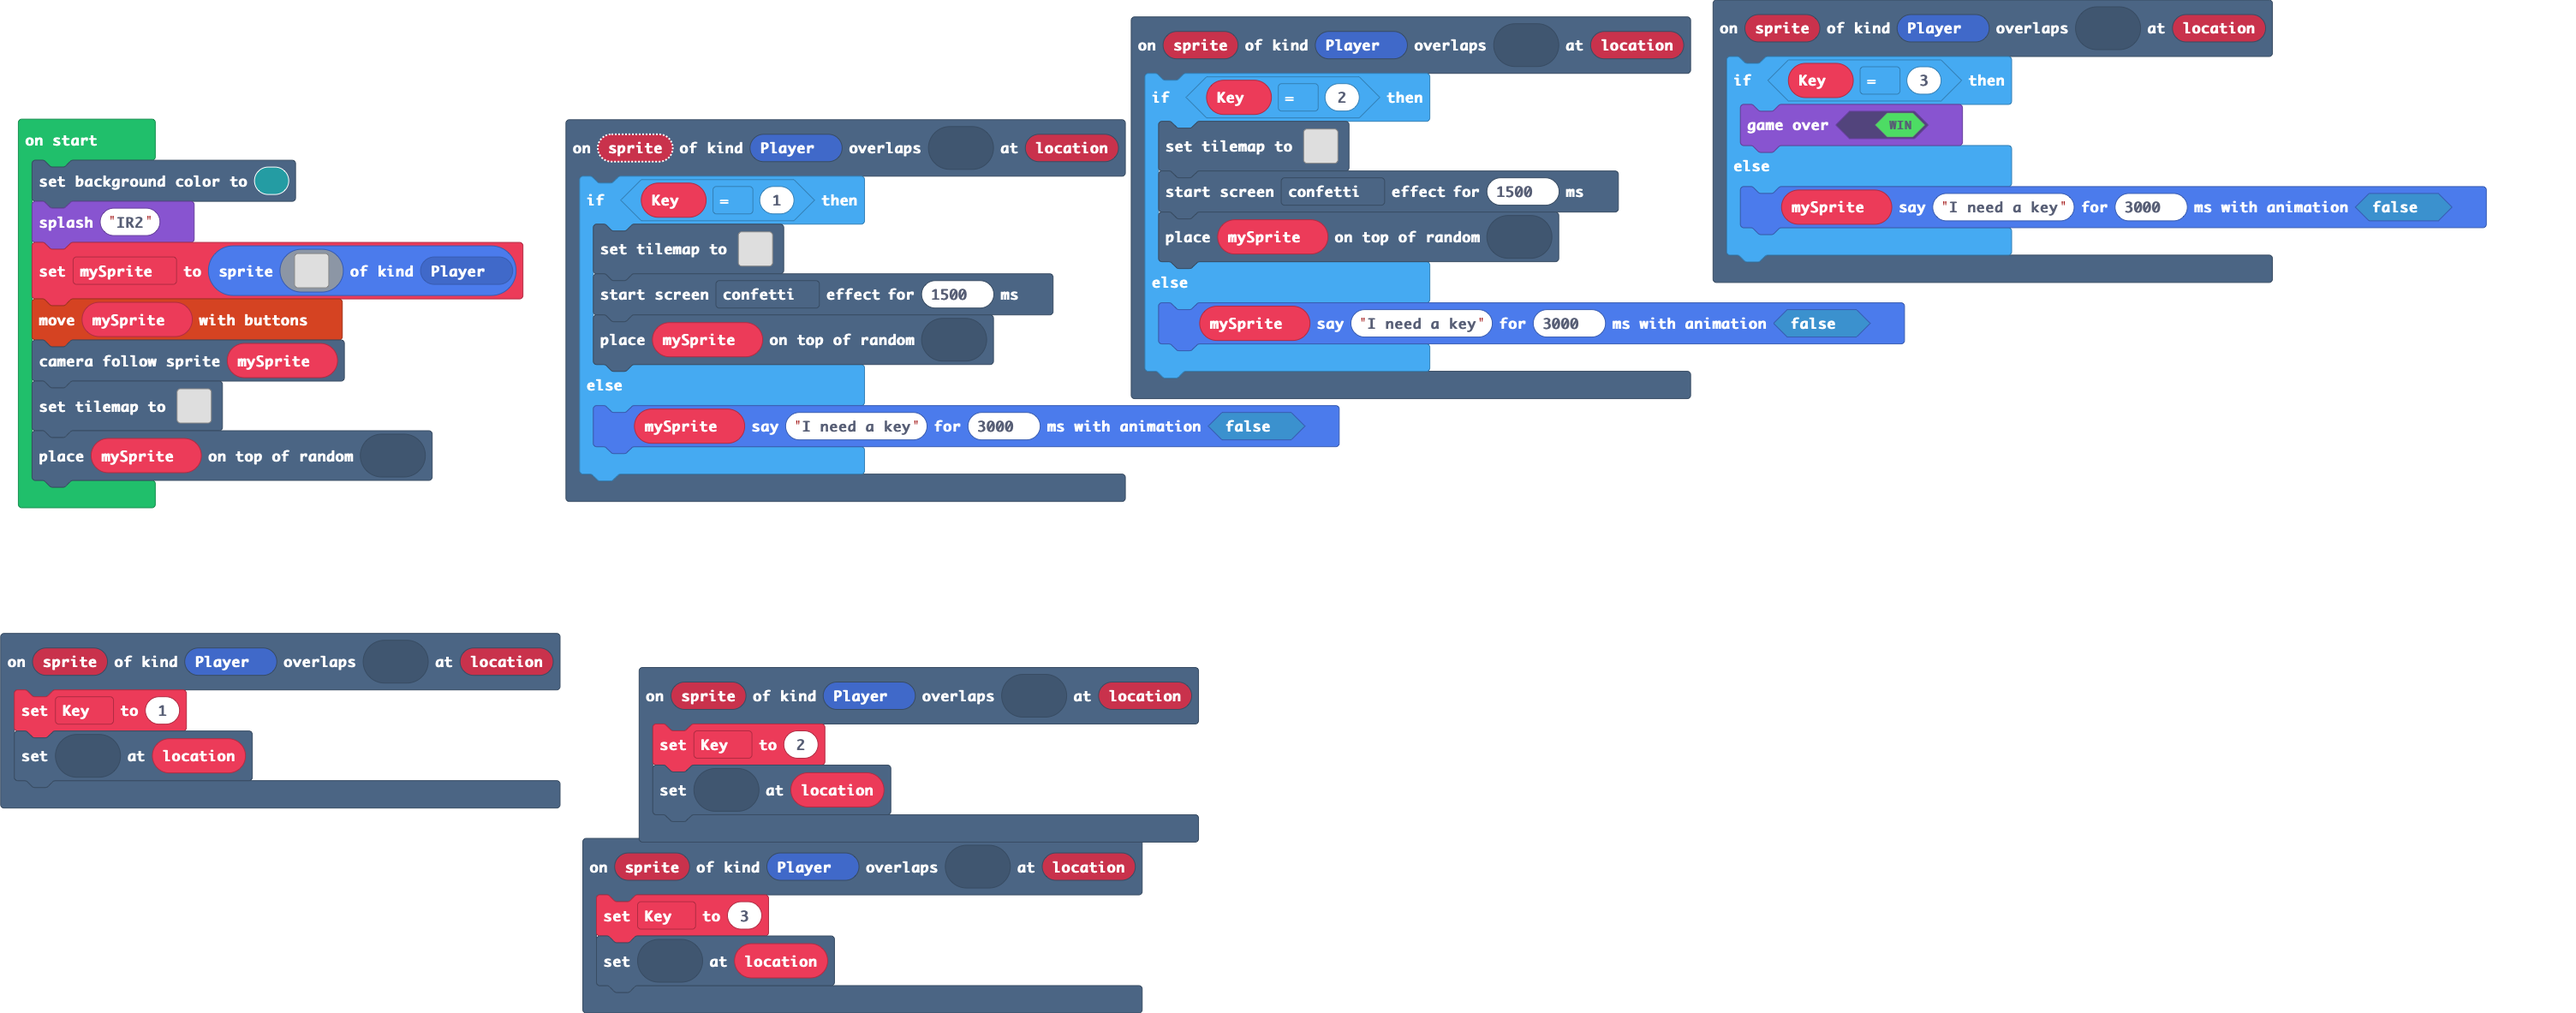
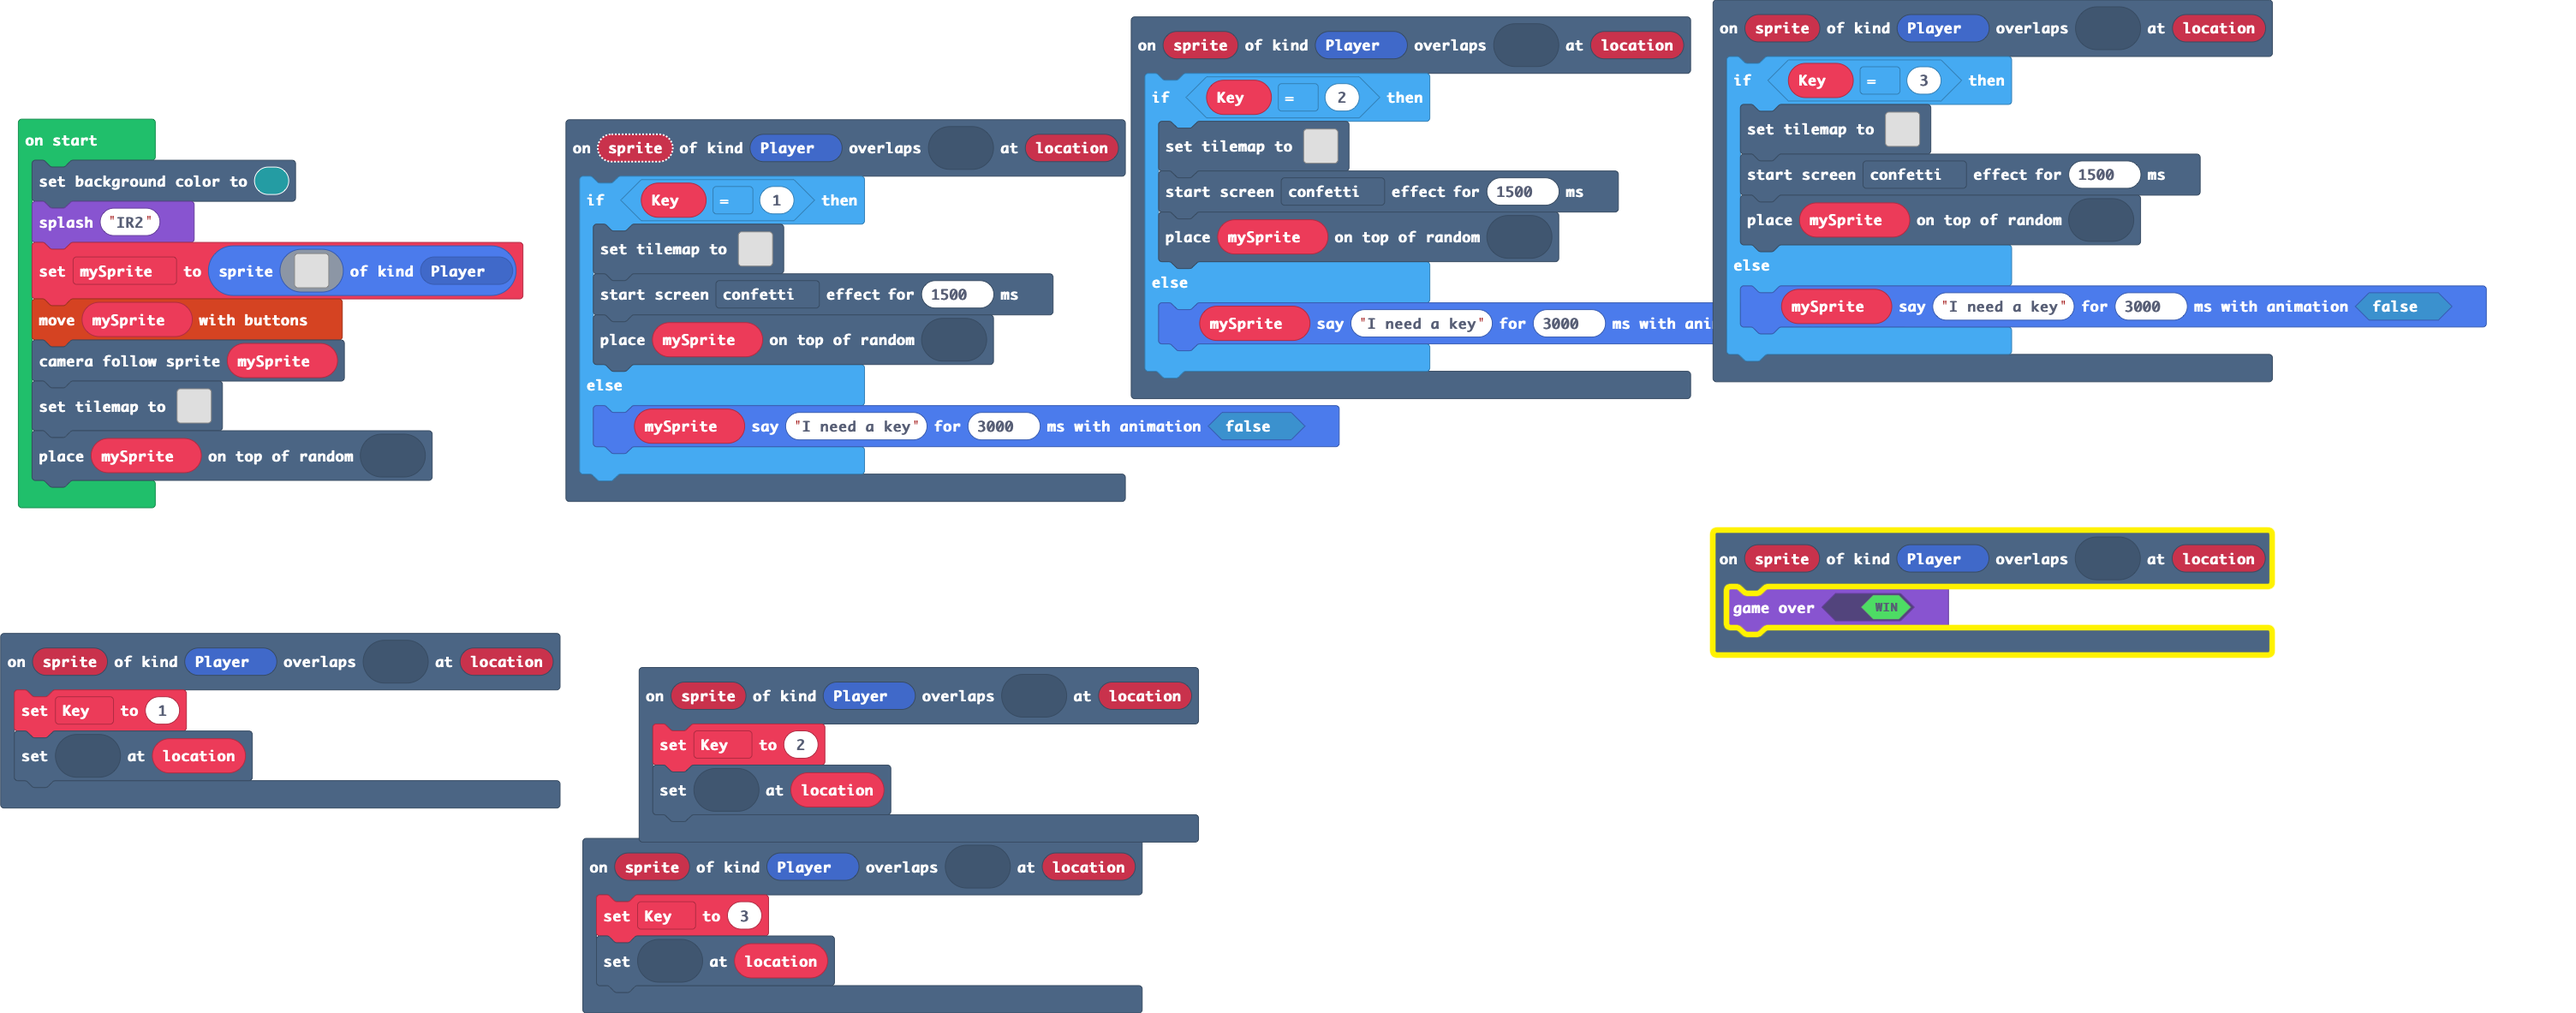
Update main.blocks, main.ts, tilemap.g.jres, tilemap.g.ts

Changed region(s): [[0.6562, 0.0913, 0.9688, 0.3956], [0.6562, 0.5173, 0.9062, 0.6695]]

diff --git a/tilemap.g.ts b/tilemap.g.ts
@@ -9,8 +9,6 @@ namespace myTiles {
     //% fixedInstance jres blockIdentity=images._tile
     export const tile4 = image.ofBuffer(hex``);
     //% fixedInstance jres blockIdentity=images._tile
-    export const tile5 = image.ofBuffer(hex``);
-    //% fixedInstance jres blockIdentity=images._tile
     export const tile6 = image.ofBuffer(hex``);
     //% fixedInstance jres blockIdentity=images._tile
     export const tile3 = image.ofBuffer(hex``);
@@ -28,6 +26,8 @@ namespace myTiles {
     export const tile12 = image.ofBuffer(hex``);
     //% fixedInstance jres blockIdentity=images._tile
     export const tile13 = image.ofBuffer(hex``);
+    //% fixedInstance jres blockIdentity=images._tile
+    export const tile14 = image.ofBuffer(hex``);
 
     helpers._registerFactory("tilemap", function(name: string) {
         switch(helpers.stringTrim(name)) {
@@ -240,6 +240,159 @@ namespace myTiles {
 . . . . . . . . . . . . . . . . 
 . . . . . . . . . . . . . . . . 
 `, [myTiles.transparency16], TileScale.Sixteen);
+            case "level8":
+            case "level8":return tiles.createTilemap(hex`1000100000000000000000000000000000000000000000000000000000000000000000000000000000000000000000000000000000000000000000000000000000000000000000000000000000000000000000000000000000000000000000000000000000000000000000000000000000000000000000000000000000000000000000000000000000000000000000000000000000000000000000000000000000000000000000000000000000000000000000000000000000000000000000000000000000000000000000000000000000000000000000000000000000000000000000000000000000000000000000000000000000000000000000000000000000000000`, img`
+. . . . . . . . . . . . . . . . 
+. . . . . . . . . . . . . . . . 
+. . . . . . . . . . . . . . . . 
+. . . . . . . . . . . . . . . . 
+. . . . . . . . . . . . . . . . 
+. . . . . . . . . . . . . . . . 
+. . . . . . . . . . . . . . . . 
+. . . . . . . . . . . . . . . . 
+. . . . . . . . . . . . . . . . 
+. . . . . . . . . . . . . . . . 
+. . . . . . . . . . . . . . . . 
+. . . . . . . . . . . . . . . . 
+. . . . . . . . . . . . . . . . 
+. . . . . . . . . . . . . . . . 
+. . . . . . . . . . . . . . . . 
+. . . . . . . . . . . . . . . . 
+`, [myTiles.transparency16], TileScale.Sixteen);
+            case "level9":
+            case "level9":return tiles.createTilemap(hex`1000100000000000000000000000000000000000000000000000000000000000000000000000000000000000000000000000000000000000000000000000000000000000000000000000000000000000000000000000000000000000000000000000000000000000000000000000000000000000000000000000000000000000000000000000000000000000000000000000000000000000000000000000000000000000000000000000000000000000000000000000000000000000000000000000000000000000000000000000000000000000000000000000000000000000000000000000000000000000000000000000000000000000000000000000000000000000`, img`
+. . . . . . . . . . . . . . . . 
+. . . . . . . . . . . . . . . . 
+. . . . . . . . . . . . . . . . 
+. . . . . . . . . . . . . . . . 
+. . . . . . . . . . . . . . . . 
+. . . . . . . . . . . . . . . . 
+. . . . . . . . . . . . . . . . 
+. . . . . . . . . . . . . . . . 
+. . . . . . . . . . . . . . . . 
+. . . . . . . . . . . . . . . . 
+. . . . . . . . . . . . . . . . 
+. . . . . . . . . . . . . . . . 
+. . . . . . . . . . . . . . . . 
+. . . . . . . . . . . . . . . . 
+. . . . . . . . . . . . . . . . 
+. . . . . . . . . . . . . . . . 
+`, [myTiles.transparency16], TileScale.Sixteen);
+            case "level10":
+            case "level10":return tiles.createTilemap(hex`1000100000000000000000000000000000000000000000000000000000000000000000000000000000000000000000000000000000000000000000000000000000000000000000000000000000000000000000000000000000000000000000000000000000000000000000000000000000000000000000000000000000000000000000000000000000000000000000000000000000000000000000000000000000000000000000000000000000000000000000000000000000000000000000000000000000000000000000000000000000000000000000000000000000000000000000000000000000000000000000000000000000000000000000000000000000000000`, img`
+. . . . . . . . . . . . . . . . 
+. . . . . . . . . . . . . . . . 
+. . . . . . . . . . . . . . . . 
+. . . . . . . . . . . . . . . . 
+. . . . . . . . . . . . . . . . 
+. . . . . . . . . . . . . . . . 
+. . . . . . . . . . . . . . . . 
+. . . . . . . . . . . . . . . . 
+. . . . . . . . . . . . . . . . 
+. . . . . . . . . . . . . . . . 
+. . . . . . . . . . . . . . . . 
+. . . . . . . . . . . . . . . . 
+. . . . . . . . . . . . . . . . 
+. . . . . . . . . . . . . . . . 
+. . . . . . . . . . . . . . . . 
+. . . . . . . . . . . . . . . . 
+`, [myTiles.transparency16], TileScale.Sixteen);
+            case "level11":
+            case "level11":return tiles.createTilemap(hex`1000100000000000000000000000000000000000000000000000000000000000000000000000000000000000000000000000000000000000000000000000000000000000000000000000000000000000000000000000000000000000000000000000000000000000000000000000000000000000000000000000000000000000000000000000000000000000000000000000000000000000000000000000000000000000000000000000000000000000000000000000000000000000000000000000000000000000000000000000000000000000000000000000000000000000000000000000000000000000000000000000000000000000000000000000000000000000`, img`
+. . . . . . . . . . . . . . . . 
+. . . . . . . . . . . . . . . . 
+. . . . . . . . . . . . . . . . 
+. . . . . . . . . . . . . . . . 
+. . . . . . . . . . . . . . . . 
+. . . . . . . . . . . . . . . . 
+. . . . . . . . . . . . . . . . 
+. . . . . . . . . . . . . . . . 
+. . . . . . . . . . . . . . . . 
+. . . . . . . . . . . . . . . . 
+. . . . . . . . . . . . . . . . 
+. . . . . . . . . . . . . . . . 
+. . . . . . . . . . . . . . . . 
+. . . . . . . . . . . . . . . . 
+. . . . . . . . . . . . . . . . 
+. . . . . . . . . . . . . . . . 
+`, [myTiles.transparency16], TileScale.Sixteen);
+            case "level12":
+            case "level12":return tiles.createTilemap(hex`1000100000000000000000000000000000000000000000000000000000000000000000000000000000000000000000000000000000000000000000000000000000000000000000000000000000000000000000000000000000000000000000000000000000000000000000000000000000000000000000000000000000000000000000000000000000000000000000000000000000000000000000000000000000000000000000000000000000000000000000000000000000000000000000000000000000000000000000000000000000000000000000000000000000000000000000000000000000000000000000000000000000000000000000000000000000000000`, img`
+. . . . . . . . . . . . . . . . 
+. . . . . . . . . . . . . . . . 
+. . . . . . . . . . . . . . . . 
+. . . . . . . . . . . . . . . . 
+. . . . . . . . . . . . . . . . 
+. . . . . . . . . . . . . . . . 
+. . . . . . . . . . . . . . . . 
+. . . . . . . . . . . . . . . . 
+. . . . . . . . . . . . . . . . 
+. . . . . . . . . . . . . . . . 
+. . . . . . . . . . . . . . . . 
+. . . . . . . . . . . . . . . . 
+. . . . . . . . . . . . . . . . 
+. . . . . . . . . . . . . . . . 
+. . . . . . . . . . . . . . . . 
+. . . . . . . . . . . . . . . . 
+`, [myTiles.transparency16], TileScale.Sixteen);
+            case "level13":
+            case "level13":return tiles.createTilemap(hex`3700370001010101010101010101010101010101010101010101010101010101010101010101010101010101010101010101010101010101010101010102020202020202020202020202020202020202020202020202020202020202020202020202020202020202020202020202020202010101010101010201010101010101010101010101010101010101010101010101010201010101010101010101010101010101010101020101020202020202020202020202020202020202020202020202020202020201020202020202020202020202020202020202020202010201010201010101010101010101010101010101010101010101010101010102010201010101010101010101010101010101010101020102010102010202020202020202020202020101010101010101010102020201020101010101010101010101010101010101010102010201020101020102010101010101020101010201020202020202020202020302010201010202020202020202020202020202020202020102010201010201020102020201010201020102010201010101010101010202020102010102010101010101010101010101010102010201020102010102010201020102010102010202020102010102010101010101010101020101020101020202020202020202020201020102010201020101020102010201020101020101010101020101020102020202020202020201010201010201010102010101010102010201020102010201010201020102010201010202020202020202020201020101010101010101010102010102010101020202020101020102010201020102010102010201020102010101010101010101010101010202020202020202020202020202020102010101010101010101020102010201020101020102010201020102010101010101010101010101010101010101010101010101010101020101010101010101010201020102010201010201020102010201020102020202020202020202020202020202020202020202020202020202020202020202020202010201020102010102010201020102010201020101010101010101010101010101010101010101010101010101010101010101010101010102010201020101020102010201020202020201020102020202020202020202020202020202010102020202020202020202020202020101010102010201010201020102010101010102010201020101010101010102010101010101010101010101010101010201010101010101010101020102010102010201020102020201020102010201010202020202020202020202020202020202020202010102010101020202020202020201010101020102010201010102010201020102010102010101010101010101010101010101010101020101020101010201020101010101010101010201020102020202020102010201020101020102020202010101010101010101010101010201010201020102010202020202020202010102010201010101010101020102010201010201020101020102020202020202020202020102010102010201020101010101010101020101020102020202020202020201020102010102010201010101020101010101020102010201020202020102010201010101010101010101010201010101010101010101010201020101020202020202020201010101010201020102010201010101020102020202020202020201010102020202020202020202020202010201010101020101010101010202020202010201020102010101010201010101010101010102010101010101010101010101010101010102020202020201010101010102010101020102010201020102020202020202020202020201020101010202020202020202020202020201010101010101010202020202020202010201010102010201010101010101010101010102010201010102010101010101010101010101010101010101010101010101010101010102010101020102010202020202020202020101020102010101020202020202020202020202020202020202020202020202020202020202020202020201020102010101020101010101010201020101010201010101010101010101010101010101010101010101010101010101010101010101010201020101010202020202020202010201010102010102020202020202020202020202020202020202020202020202010202020202020202020201010101010101010101010102010101020101020101010101020101010101010101010101010101010101020102010101010101010101010102020202020202020202020101010201010201020202010201010101020202020202020202020202020201020101010101010101010101020101010101010101010101010102010102010201010102010101010101010101010101010101010101010202020202020202020202020201010101010101010101010101020101020102020202020202020202020202020202020202020201010101010101010101010101010101010102020202020202020101010201010201010101010101010101010101010101010101010101010101010101010101010101010101010101020102010201010201010102010102020202020202020202020202020202020202020202020202020202020202020202020202020202010201020102010102010101020101010101020101010101010101010101010101010101010101010101010101010101010102010101020102010201020101020101010201020202010201010202020202020202020202020202020202020202020202020202010201020102010201020102010201010201010102010201020102010102010101010101010101010101010101010101010101010101020102010201020102010201020102010102010101020102010201020101010101010202020202020202020202020202020202020201010201020102010202020102010201020102020101010201020102010201020202020202010101010101010101010101010101010102010102010201020101010101020102010201010101010102010201020102010101010101020202020202020202020202020201010101020101020102020202020202020201020102010201010101020102010201020202020101010101010101010101010101010102010102010201010201010101010101010101010201020102010101010201020102010201010202020202020202020202020202020201020101020102010102010101010101010101010102010201020101010102010201020102010101010101010101010101010101010102010201010201020101020101020202020202020101020102020201010101020102010101020202020202020202020202020202020201020102010102010201010201010201010201010201010201020102010101010201020101010101010101010101010101010101010102010201020101020102010102020202010102010102010102010201020101010102010202020202020202020202020202020202020201020102010201010201020101010101020101010101020101020102010201010101020101010101010101010101010101010101010102010201020102010102010201010101010202020202020202020201020102010101010201010202020202020202020202020202020202020102010201020101020102010101010101010101010101010101010201020101010102010102010101010101010101010101010101010101020102010201010201020202020202020202020202020202020202010201010101020202020202020202020202020202020202020202020201020102010102010101010101010201010101010101010101010102010101010101010101010101010101010101010101010101010101010201020101020101010101010102010101010101010101010101020101010102020202020202020202020202020202020202020202020202010201010202020202020202020202020101010202020202020201010101010101010101010101010101010101010101010101010101010101010101010101010101010101010101010101010101010101010101`, img`
+.......................................................
+.......................................................
+.......................................................
+.......................................................
+.......................................................
+.......................................................
+.......................................................
+.......................................................
+.......................................................
+.......................................................
+.......................................................
+.......................................................
+.......................................................
+.......................................................
+.......................................................
+.......................................................
+.......................................................
+.......................................................
+.......................................................
+.......................................................
+.......................................................
+.......................................................
+.......................................................
+.......................................................
+.......................................................
+.......................................................
+.......................................................
+.......................................................
+.......................................................
+.......................................................
+.......................................................
+.......................................................
+.......................................................
+.......................................................
+.......................................................
+.......................................................
+.......................................................
+.......................................................
+.......................................................
+.......................................................
+.......................................................
+.......................................................
+.......................................................
+.......................................................
+.......................................................
+.......................................................
+.......................................................
+.......................................................
+.......................................................
+.......................................................
+.......................................................
+.......................................................
+.......................................................
+.......................................................
+.......................................................
+`, [myTiles.transparency16,myTiles.tile1,myTiles.tile2,myTiles.tile14], TileScale.Sixteen);
         }
         return null;
     })
@@ -253,8 +406,6 @@ namespace myTiles {
             case "tile2":return tile2;
             case "myTile2":
             case "tile4":return tile4;
-            case "myTile3":
-            case "tile5":return tile5;
             case "myTile4":
             case "tile6":return tile6;
             case "key":
@@ -273,6 +424,8 @@ namespace myTiles {
             case "tile12":return tile12;
             case "myTile10":
             case "tile13":return tile13;
+            case "myTile11":
+            case "tile14":return tile14;
         }
         return null;
     })

diff --git a/main.ts b/main.ts
@@ -30,10 +30,15 @@ scene.onOverlapTile(SpriteKind.Player, assets.tile`myTile5`, function (sprite, l
 })
 scene.onOverlapTile(SpriteKind.Player, assets.tile`myTile10`, function (sprite, location) {
     if (Key == 3) {
-        game.over(true)
+        tiles.setTilemap(tilemap`level13`)
+        effects.confetti.startScreenEffect(1500)
+        tiles.placeOnRandomTile(mySprite, assets.tile`myTile2`)
     } else {
         mySprite.sayText("I need a key", 3000, false)
     }
+})
+scene.onOverlapTile(SpriteKind.Player, assets.tile`myTile11`, function (sprite, location) {
+    game.over(true)
 })
 let Key = 0
 let mySprite: Sprite = null
